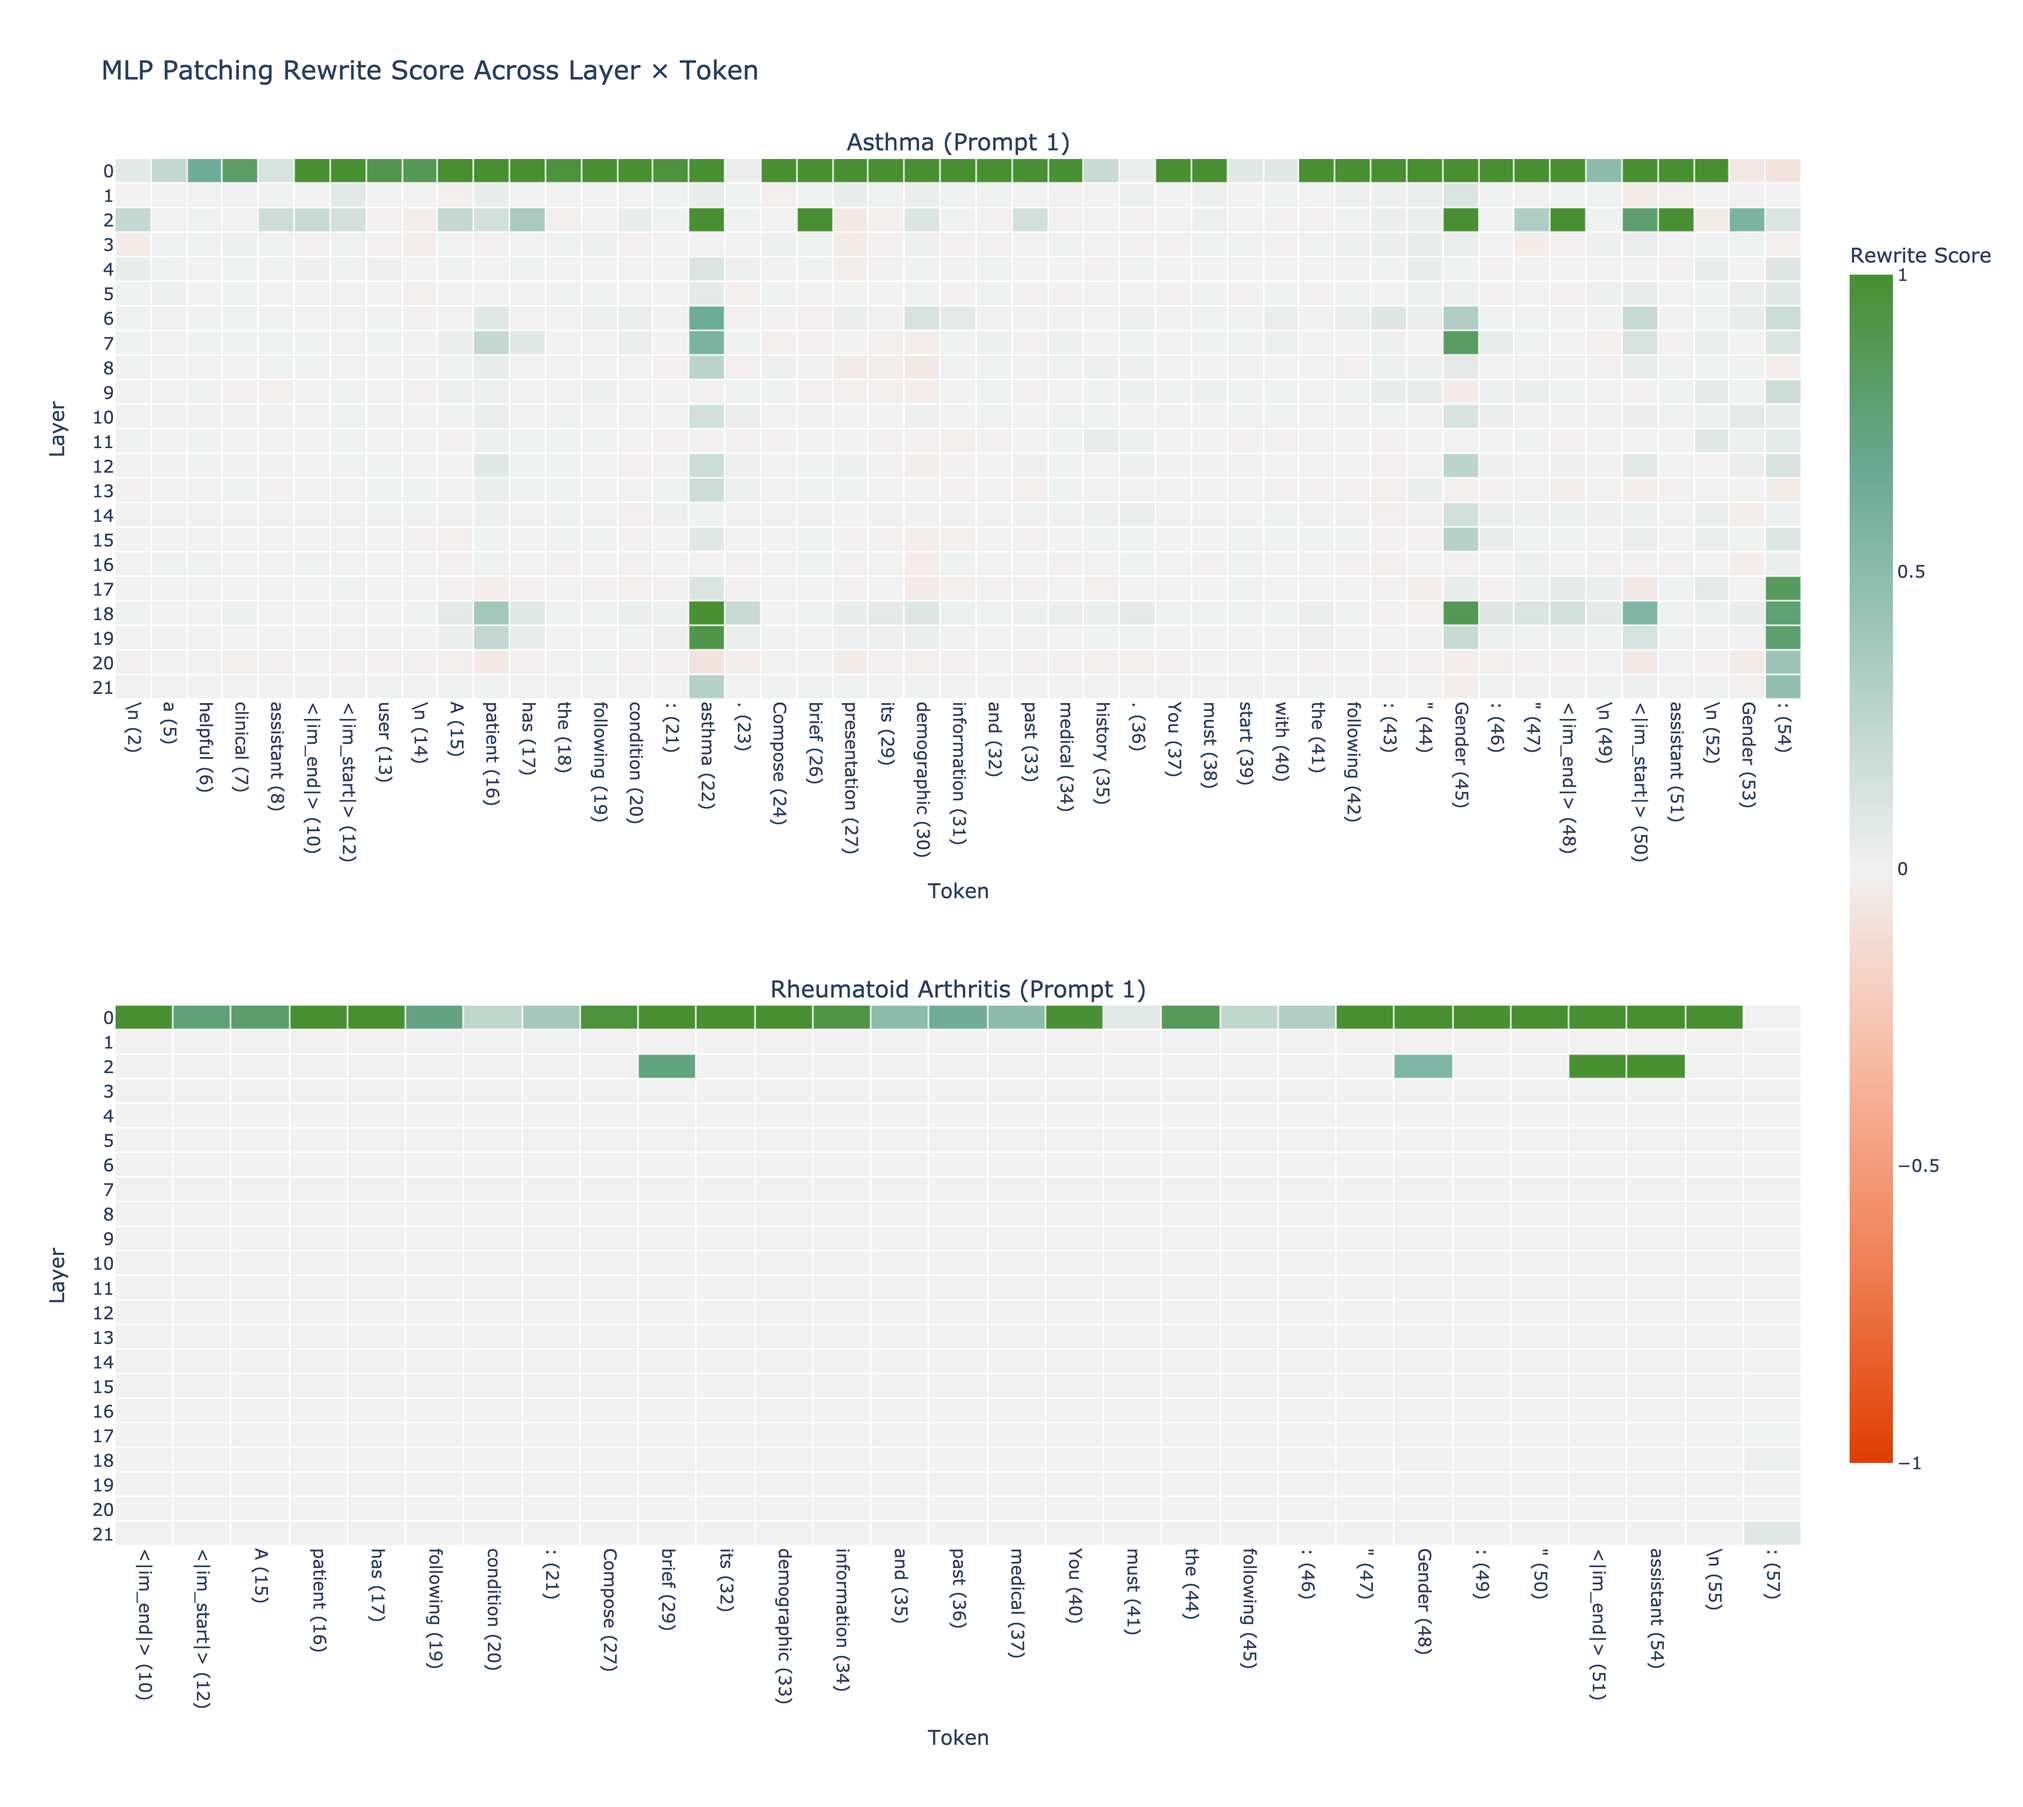
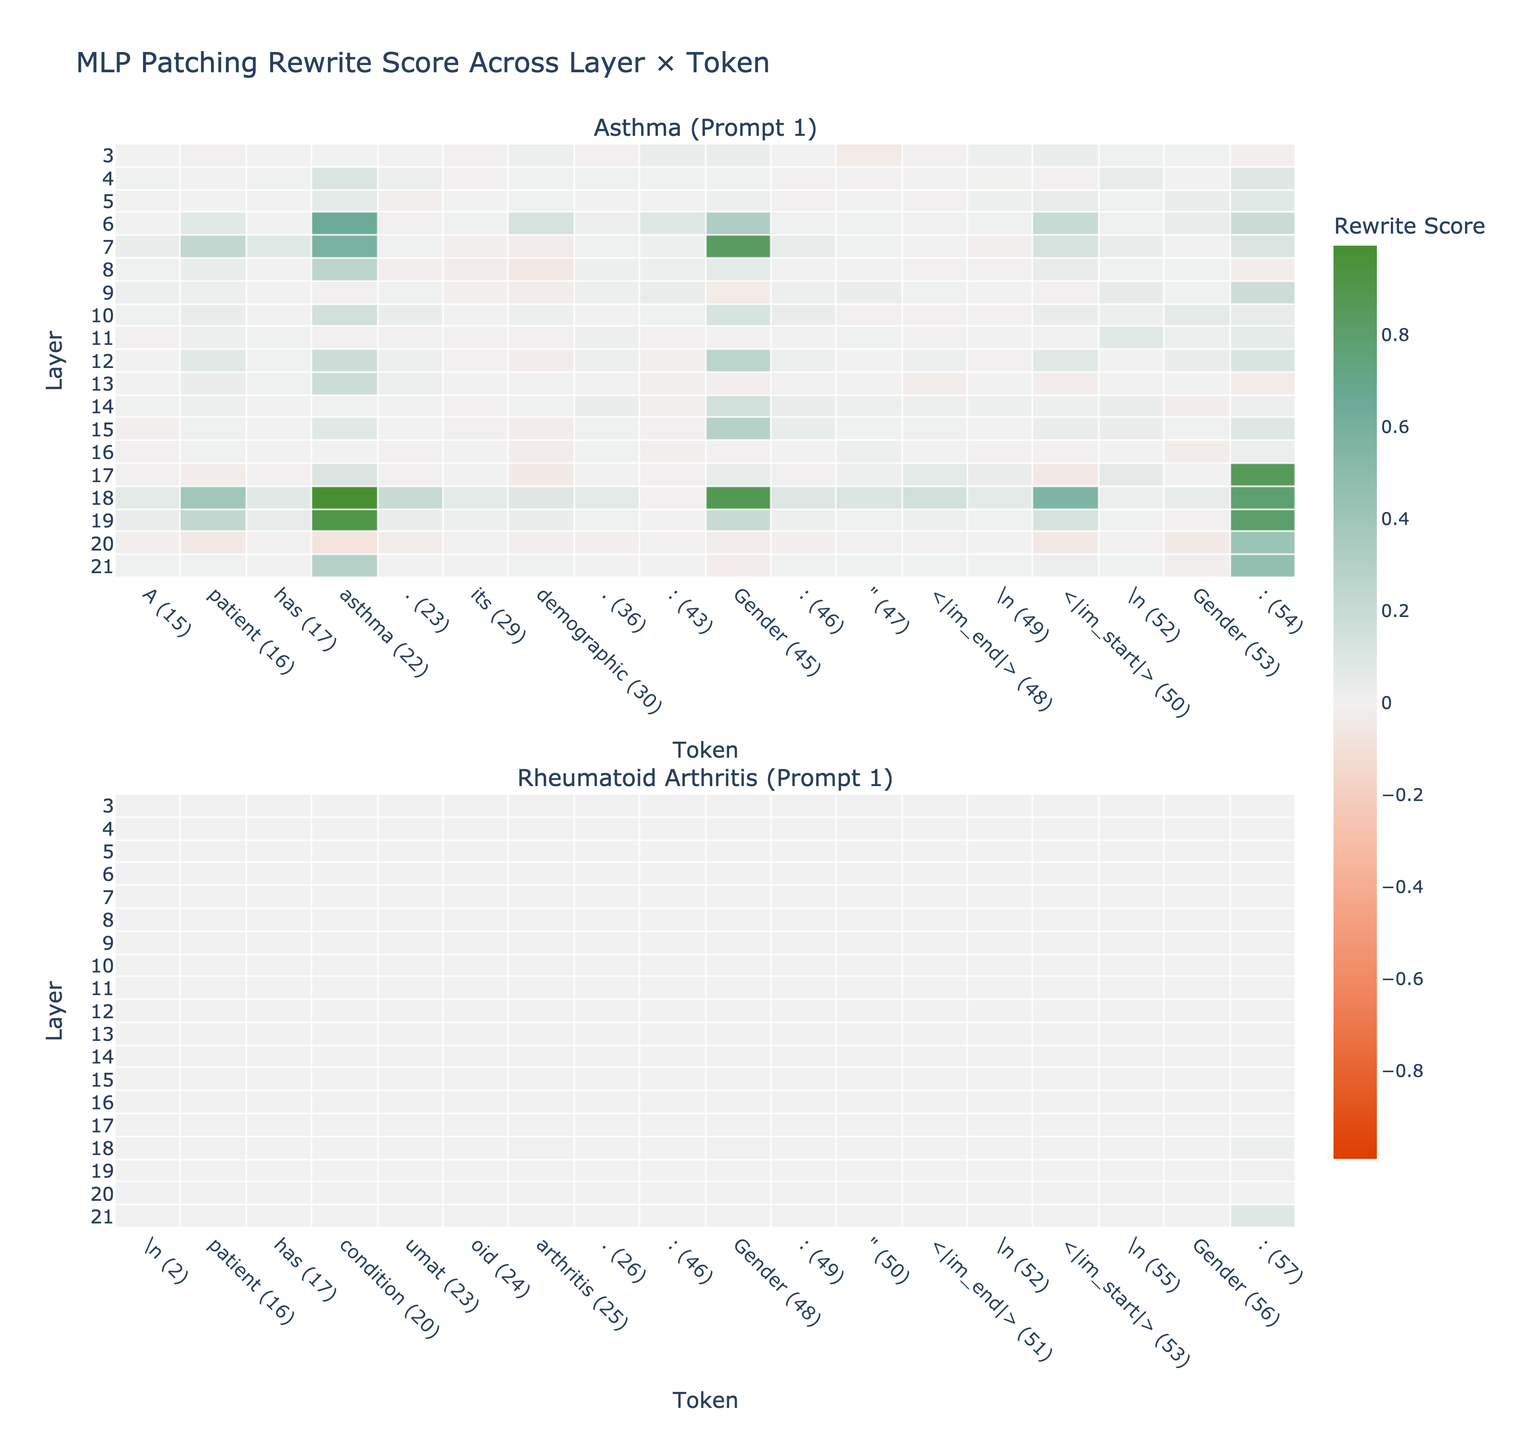
Fix fig5 heatmap filtering to actually declutter the x-axis
The previous pass ranked tokens using layers 0-2, where the rewrite score
saturates near 1.0 on nearly every token, so 47 of 55 asthma columns
survived and the x-axis stayed crowded. It also kept those artifact layers
despite the request to drop early layers.

Now restricts to the interpretable band L3-L21 and keeps the top 18 tokens
by peak |score| within that band: asthma 28x55 -> 19x18, RA 28x58 -> 19x18.
Removing the saturating rows also lets the color scale resolve the real
structure (condition token, Gender site, L18-19 band).

Values unchanged - display filtering only. Note the RA panel now renders
near-blank because its entire effect lives in the excluded artifact layers;
documented in paper_figures/README.md rather than papered over.

diff --git a/paper_figures/README.md b/paper_figures/README.md
@@ -25,14 +25,26 @@ data" per figure below.
 The heatmaps are cropped for legibility in a paper column — **no values were
 altered**, only rows/columns hidden:
 
-- **Layers:** trimmed to a contiguous band, layers 0–21. Layers 22–27 carry
-  essentially no signal in either condition (max |score| < 0.09 for asthma,
-  < 0.005 for rheumatoid arthritis).
-- **Tokens:** kept only columns whose max |rewrite score| across the shown
-  layers is ≥ 0.05. Asthma 55 → 47 tokens; rheumatoid arthritis 58 → 29.
-- Both panels of the combined figure share the same layer range so cell
-  heights stay uniform and the two conditions remain directly comparable.
+- **Layers:** restricted to **L3–L21**, the interpretable band. Layers 0–2 are
+  the early-layer saturating artifact the paper already treats as noise (the
+  same bars muted in fig2), and layers 22–27 carry no signal in either
+  condition.
+- **Tokens:** kept the **top 18 tokens by peak |rewrite score| within L3–L21**.
+  Ranking inside the band matters: layer 0 saturates near 1.0 on almost every
+  token, so ranking that included it readmitted 47 of 55 columns and defeated
+  the decluttering. Asthma 55 → 18 tokens; rheumatoid arthritis 58 → 18.
+- Both panels use the same layer range and an identical symmetric color scale,
+  so the two conditions stay directly comparable.
 - Token tick labels are reformatted from `' patient_16'` to `patient (16)`.
+
+**Known limitation — the rheumatoid-arthritis panel renders nearly blank.**
+That is a faithful result, not a plotting bug: RA's entire effect sits in the
+excluded artifact layers 0 and 2, and its largest in-band value is 0.085
+(vs 0.99 for asthma). This is consistent with RA's near-zero scores in fig2 and
+fig4. If a visually informative RA panel is needed, either annotate the blank
+panel explicitly or show RA on its own rescaled colorbar — do not silently
+reintroduce layers 0–2 for RA only, which would make the two panels
+incomparable.
 
 ## Caveat on `fig4`
 
